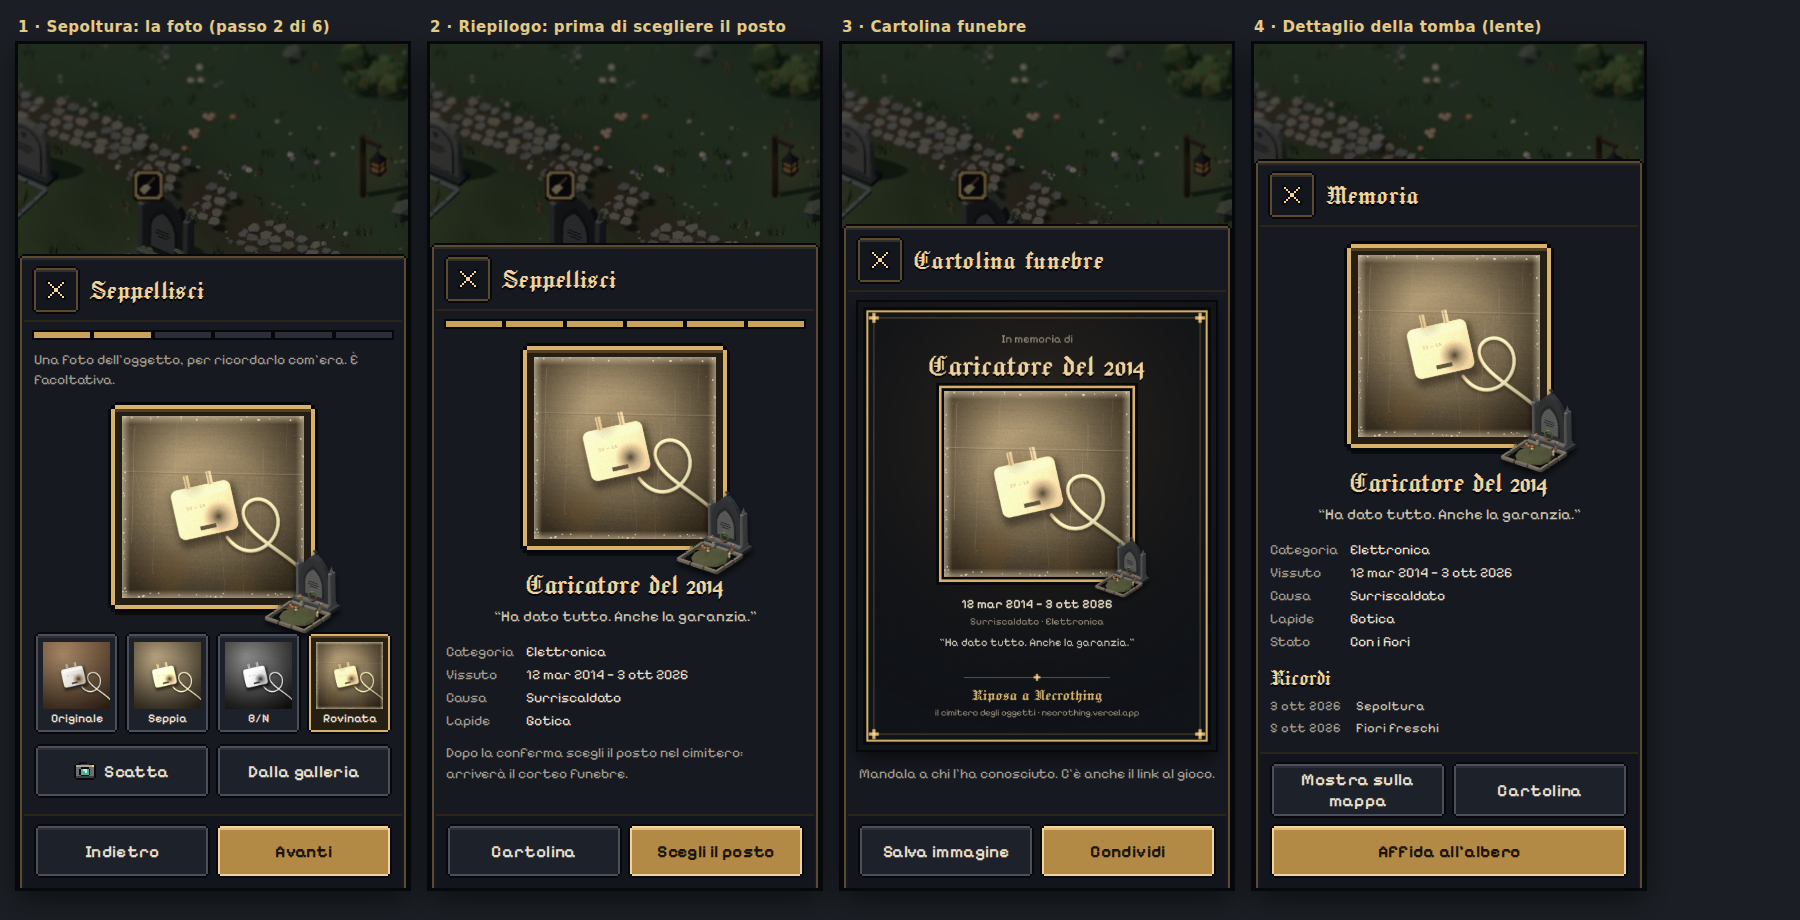
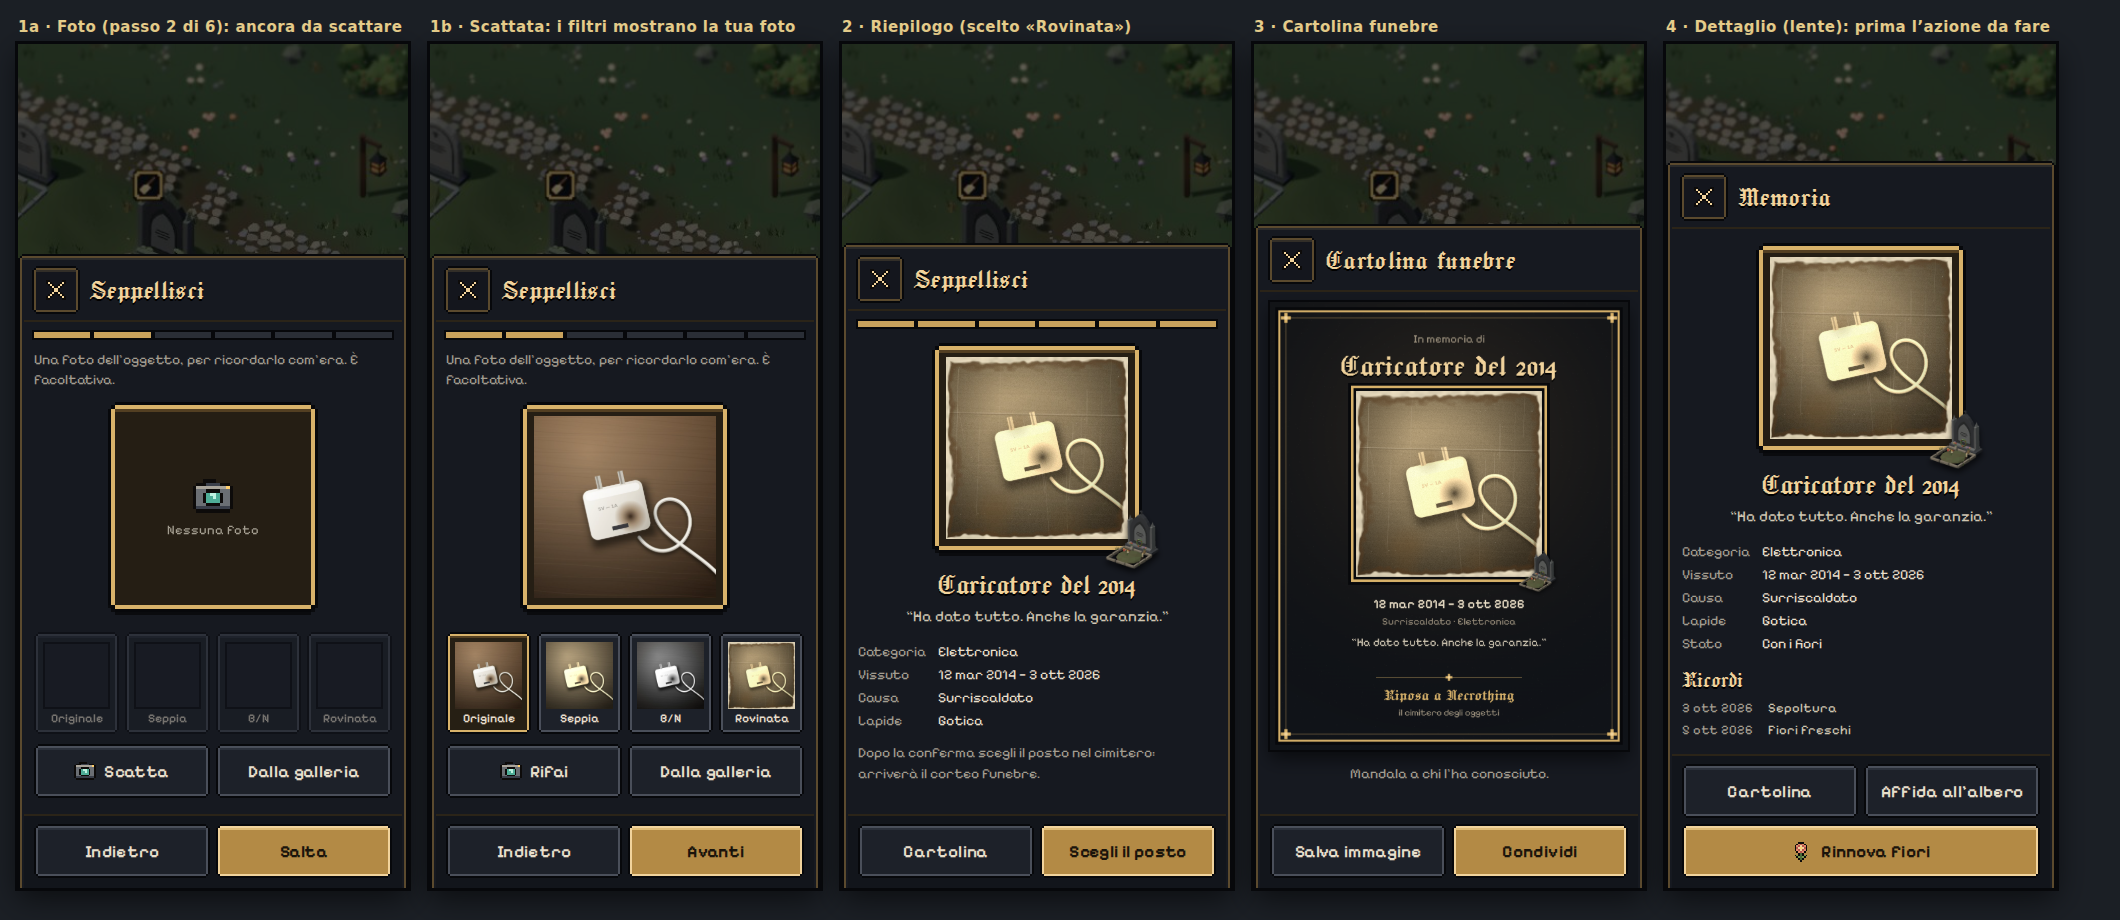
Anteprima memoriale rivista: filtro di partenza Originale, stato senza foto, bordi consumati irregolari, lapide più piccola, cartolina senza link, azione da fare come pulsante principale del dettaglio
Claude-Session: https://claude.ai/code/session_01U6u5RojYrwYjZd8sSRU7em

diff --git a/Prototype-3d/src/proto/memorial.ts b/Prototype-3d/src/proto/memorial.ts
@@ -75,6 +75,7 @@ const photo = squareCrop(samplePhoto());
 const FILTERS: PhotoFilter[] = ['none', 'sepia', 'bw', 'worn'];
 const filtered = Object.fromEntries(FILTERS.map((f) => [f, applyPhotoFilter(photo, f, 11)])) as Record<PhotoFilter, HTMLCanvasElement>;
 const url = (c: HTMLCanvasElement) => c.toDataURL('image/jpeg', 0.85);
+/** Filtro scelto nella sepoltura d'esempio (si parte sempre da «Originale»). */
 const chosen: PhotoFilter = 'worn';
 const stone = graveThumb('gothic', 'lowpoly', 'flowers', 1);
 
@@ -83,7 +84,10 @@ const GRAVE = {
   dates: '12 mar 2014 — 3 ott 2026', cause: 'Surriscaldato', category: 'Elettronica', lapide: 'Gotica',
 };
 
-const portrait = (src: string) => h('div', { class: 'portrait' }, h('img', { class: 'pic', src, alt: '' }), h('img', { class: 'stone', src: stone, alt: '' }));
+/** Foto incorniciata; la lapide in piccolo solo quando è già scelta (non nel passo della foto). */
+const portrait = (src: string | null, withStone = true) => src
+  ? h('div', { class: 'portrait' }, h('img', { class: 'pic', src, alt: '' }), withStone ? h('img', { class: 'stone', src: stone, alt: '' }) : null)
+  : h('div', { class: 'portrait empty' }, h('div', { class: 'pic' }, icon('photo', 40), 'Nessuna foto'));
 
 /** Un telefono: lo sfondo del gioco, lo scrim e il drawer con titolo, corpo e piede. */
 function phone(caption: string, title: string, body: Node, foot: Node | null, steps?: [number, number]) {
@@ -101,12 +105,14 @@ const btn = (label: string, ghost = false, ic?: string) => h('button', { class: 
 
 async function screens() {
   const tav = document.getElementById('tavola')!;
-  // 1 · passo «Foto» della sepoltura
-  const s1 = h('div', { class: 'photo-pick' },
+  // 1 · passo «Foto» della sepoltura: senza foto i filtri restano spenti; scattata, mostrano la foto
+  const pick = (taken: boolean) => h('div', { class: 'photo-pick' },
     h('p', { class: 'muted', style: 'margin:0' }, 'Una foto dell’oggetto, per ricordarlo com’era. È facoltativa.'),
-    portrait(url(filtered[chosen])),
-    h('div', { class: 'filters' }, ...FILTERS.map((f) => h('button', { class: `card${f === chosen ? ' selected' : ''}` }, h('img', { src: url(filtered[f]), alt: '' }), h('b', {}, PHOTO_FILTER_LABELS[f])))),
-    row(btn('Scatta', true, 'photo'), btn('Dalla galleria', true)),
+    portrait(taken ? url(filtered.none) : null, false),
+    h('div', { class: 'filters' }, ...FILTERS.map((f) => h('button', { class: `card${taken && f === 'none' ? ' selected' : ''}`, disabled: !taken },
+      taken ? h('img', { src: url(filtered[f]), alt: '' }) : h('div', { style: 'width:100%;aspect-ratio:1;background:#1a1e26;box-shadow:inset 0 0 0 2px #07080b' }),
+      h('b', {}, PHOTO_FILTER_LABELS[f])))),
+    row(btn(taken ? 'Rifai' : 'Scatta', true, 'photo'), btn('Dalla galleria', true)),
   );
   // 2 · riepilogo prima di scegliere il posto
   const kv = (extra: Array<[string, string]> = []) => h('dl', { class: 'kv' }, ...[['Categoria', GRAVE.category], ['Vissuto', GRAVE.dates], ['Causa', GRAVE.cause], ['Lapide', GRAVE.lapide], ...extra].flatMap(([k, v]) => [h('dt', {}, k), h('dd', {}, v)]));
@@ -114,16 +120,17 @@ async function screens() {
   const s2 = h('div', {}, hero(), kv(), h('p', { class: 'muted' }, 'Dopo la conferma scegli il posto nel cimitero: arriverà il corteo funebre.'));
   // 3 · cartolina
   const card = await drawPostcard({ name: GRAVE.name, dates: GRAVE.dates, cause: GRAVE.cause, category: GRAVE.category, epitaph: GRAVE.epitaph, photo: filtered[chosen], headstone: await img(stone) });
-  const s3 = h('div', {}, h('img', { class: 'postcard-view', src: card.toDataURL('image/png'), alt: '' }), h('p', { class: 'muted', style: 'text-align:center' }, 'Mandala a chi l’ha conosciuto. C’è anche il link al gioco.'));
+  const s3 = h('div', {}, h('img', { class: 'postcard-view', src: card.toDataURL('image/png'), alt: '' }), h('p', { class: 'muted', style: 'text-align:center' }, 'Mandala a chi l’ha conosciuto.'));
   // 4 · dettaglio della tomba (la lente)
   const s4 = h('div', {}, hero(), kv([['Stato', 'Con i fiori']]),
     h('div', { class: 'section-title' }, 'Ricordi'),
     h('ul', { class: 'timeline' }, h('li', {}, h('time', {}, '3 ott 2026'), 'Sepoltura'), h('li', {}, h('time', {}, '5 ott 2026'), 'Fiori freschi')));
   tav.append(
-    phone('1 · Sepoltura: la foto (passo 2 di 6)', 'Seppellisci', s1, row(btn('Indietro', true), btn('Avanti')), [1, 6]),
-    phone('2 · Riepilogo: prima di scegliere il posto', 'Seppellisci', s2, row(btn('Cartolina', true), btn('Scegli il posto')), [5, 6]),
+    phone('1a · Foto (passo 2 di 6): ancora da scattare', 'Seppellisci', pick(false), row(btn('Indietro', true), btn('Salta')), [1, 6]),
+    phone('1b · Scattata: i filtri mostrano la tua foto', 'Seppellisci', pick(true), row(btn('Indietro', true), btn('Avanti')), [1, 6]),
+    phone('2 · Riepilogo (scelto «Rovinata»)', 'Seppellisci', s2, row(btn('Cartolina', true), btn('Scegli il posto')), [5, 6]),
     phone('3 · Cartolina funebre', 'Cartolina funebre', s3, row(btn('Salva immagine', true), btn('Condividi'))),
-    phone('4 · Dettaglio della tomba (lente)', 'Memoria', s4, h('div', { style: 'display:grid;grid-template-columns:1fr 1fr;gap:6px' }, btn('Mostra sulla mappa', true), btn('Cartolina', true), h('button', { class: 'big-btn', style: 'grid-column:1/-1' }, 'Affida all’albero'))),
+    phone('4 · Dettaglio (lente): prima l’azione da fare', 'Memoria', s4, h('div', { style: 'display:grid;gap:6px' }, row(btn('Cartolina', true), btn('Affida all’albero', true)), btn('Rinnova fiori', false, 'flower'))),
   );
   hydrateIcons(tav);
 }

diff --git a/Prototype-3d/src/ui/photoFilters.ts b/Prototype-3d/src/ui/photoFilters.ts
@@ -57,7 +57,7 @@ export function applyPhotoFilter(src: HTMLCanvasElement, filter: PhotoFilter, se
   g.putImageData(img, 0, 0);
   if (filter !== 'worn') return vignette(c, filter === 'bw' ? 0.35 : 0.3);
   // rovinata: vignetta forte, macchie, graffi, polvere, piega e angoli consumati
-  vignette(c, 0.6);
+  vignette(c, 0.45);
   for (let i = 0; i < 5; i++) {
     const x = rng.range(0, W), y = rng.range(0, H), r = rng.range(W * 0.05, W * 0.16);
     const st = g.createRadialGradient(x, y, 0, x, y, r);
@@ -82,20 +82,52 @@ export function applyPhotoFilter(src: HTMLCanvasElement, filter: PhotoFilter, se
   g.beginPath(); g.moveTo(0, fy); g.lineTo(W, fy + rng.range(-H * 0.12, H * 0.12)); g.stroke();
   g.strokeStyle = 'rgba(40,25,10,0.18)'; g.lineWidth = 3 * (W / 720);
   g.beginPath(); g.moveTo(0, fy + 3); g.lineTo(W, fy + 3 + rng.range(-H * 0.12, H * 0.12)); g.stroke();
-  // bordi consumati: la carta schiarisce verso i lati, con sbrecciature irregolari
-  const edge = W * 0.045;
-  for (const [x0, y0, x1, y1] of [[0, 0, edge, 0], [W, 0, W - edge, 0], [0, 0, 0, edge], [0, H, 0, H - edge]]) {
-    const eg = g.createLinearGradient(x0, y0, x1, y1);
-    eg.addColorStop(0, 'rgba(232,216,184,0.55)'); eg.addColorStop(1, 'rgba(232,216,184,0)');
-    g.fillStyle = eg; g.fillRect(0, 0, W, H);
-  }
-  g.fillStyle = 'rgba(236,224,196,0.85)';
-  for (let i = 0; i < 90; i++) {
-    const side = i % 4, t = rng.range(0, side < 2 ? W : H), d = rng.range(0, edge * 0.5), s = rng.range(2, 7) * (W / 720);
-    const [x, y] = side === 0 ? [t, d] : side === 1 ? [t, H - d - s] : side === 2 ? [d, t] : [W - d - s, t];
-    g.fillRect(x, y, s, s);
-  }
+  wornEdges(g, W, H, rng);
   return c;
+}
+
+/** Rumore morbido (griglia di valori casuali interpolata), 0..1. */
+function valueNoise(rng: ReturnType<typeof createRng>, cells: number) {
+  const n = cells + 1, v = Array.from({ length: n * n }, () => rng.next());
+  const sm = (t: number) => t * t * (3 - 2 * t);
+  return (u: number, w: number) => {
+    const x = u * cells, y = w * cells, i = Math.min(cells - 1, Math.floor(x)), j = Math.min(cells - 1, Math.floor(y));
+    const fx = sm(x - i), fy = sm(y - j);
+    const a = v[j * n + i] + (v[j * n + i + 1] - v[j * n + i]) * fx;
+    const b = v[(j + 1) * n + i] + (v[(j + 1) * n + i + 1] - v[(j + 1) * n + i]) * fx;
+    return a + (b - a) * fy;
+  };
+}
+
+/**
+ * Bordi consumati: verso i lati l'emulsione si stacca a chiazze (si vede la
+ * carta chiara) e prima c'è un alone bruno dove la stampa è invecchiata. Il
+ * contorno segue un rumore a due scale, quindi non è mai una riga dritta.
+ */
+function wornEdges(g: CanvasRenderingContext2D, W: number, H: number, rng: ReturnType<typeof createRng>) {
+  const coarse = valueNoise(rng, 7), fine = valueNoise(rng, 40);
+  const band = Math.min(W, H) * 0.11;
+  const img = g.getImageData(0, 0, W, H);
+  const d = img.data;
+  for (let y = 0; y < H; y++) {
+    for (let x = 0; x < W; x++) {
+      const e = Math.min(x, y, W - 1 - x, H - 1 - y);
+      if (e > band) { x = Math.max(x, W - 2 - Math.ceil(band)); continue; } // salta il centro della riga
+      const n = coarse(x / W, y / H) * 0.7 + fine(x / W, y / H) * 0.3;
+      const t = band * (0.15 + 0.85 * n * n); // quanto entra il consumo in questo punto
+      const paper = Math.min(1, Math.max(0, (t * 0.55 - e) / (t * 0.2 + 1)));
+      const age = Math.max(0, 1 - Math.abs(e - t * 0.75) / (t * 0.6 + 1)) * 0.5;
+      const i = (y * W + x) * 4;
+      const grain = 0.9 + fine(y / H, x / W) * 0.12;
+      for (let k = 0; k < 3; k++) {
+        let v = d[i + k];
+        v += ([88, 58, 30][k] - v) * age;
+        v += ([232, 219, 190][k] * grain - v) * paper;
+        d[i + k] = clamp(v);
+      }
+    }
+  }
+  g.putImageData(img, 0, 0);
 }
 
 function vignette(c: HTMLCanvasElement, amount: number): HTMLCanvasElement {

diff --git a/Prototype-3d/src/ui/postcard.ts b/Prototype-3d/src/ui/postcard.ts
@@ -1,6 +1,7 @@
 // Cartolina funebre da condividere: nome, date, causa, epitaffio, la foto
-// dell'oggetto incorniciata con la sua lapide in piccolo, e il rimando al
-// gioco. Disegnata su una tela 1080×1350 (4:5, va bene per chat e social).
+// dell'oggetto incorniciata con la sua lapide in piccolo, e il nome del
+// gioco (il link o il QR arriveranno con la pubblicazione negli store).
+// Disegnata su una tela 1080×1350 (4:5, va bene per chat e social).
 
 export interface PostcardData {
   name: string;
@@ -13,7 +14,6 @@ export interface PostcardData {
   headstone: CanvasImageSource | null;
 }
 
-export const GAME_URL = 'necrothing.vercel.app';
 export const POSTCARD_W = 1080, POSTCARD_H = 1350;
 
 const GOLD = '#d8b26a', GOLD_HI = '#f1d39c', INK = '#07080b', PAPER = '#e8dcc4', MUTED = '#9a8f7c';
@@ -93,9 +93,9 @@ export async function drawPostcard(d: PostcardData): Promise<HTMLCanvasElement> 
   }
   // la lapide in piccolo, in basso a destra sopra la cornice
   if (d.photo && d.headstone) {
-    const hs = 200;
-    g.save(); g.shadowColor = 'rgba(0,0,0,0.7)'; g.shadowBlur = 18; g.shadowOffsetY = 6;
-    g.drawImage(d.headstone, fx + S - hs * 0.62, fy + S - hs * 0.68, hs, hs);
+    const hs = 136;
+    g.save(); g.shadowColor = 'rgba(0,0,0,0.7)'; g.shadowBlur = 14; g.shadowOffsetY = 5;
+    g.drawImage(d.headstone, fx + S - hs * 0.6, fy + S - hs * 0.66, hs, hs);
     g.restore();
   }
   // date, causa, epitaffio
@@ -110,14 +110,14 @@ export async function drawPostcard(d: PostcardData): Promise<HTMLCanvasElement> 
     g.fillStyle = '#cfc6b2'; g.font = `400 34px ${PIXEL}`;
     for (const line of wrap(g, `“${d.epitaph}”`, W - 220, 2)) { g.fillText(line, W / 2, y); y += 44; }
   }
-  // rimando al gioco
+  // il nome del gioco
   const fy2 = H - 150;
   g.fillStyle = 'rgba(216,178,106,0.5)'; g.fillRect(W / 2 - 220, fy2 - 70, 440, 2);
   corner(g, W / 2, fy2 - 69, 7);
   g.fillStyle = GOLD; g.font = `400 54px ${GOTHIC}`;
   g.fillText('Riposa a Necrothing', W / 2, fy2);
   g.fillStyle = MUTED; g.font = `400 28px ${PIXEL}`;
-  g.fillText(`il cimitero degli oggetti · ${GAME_URL}`, W / 2, fy2 + 46);
+  g.fillText('il cimitero degli oggetti', W / 2, fy2 + 46);
   return c;
 }
 
@@ -125,7 +125,7 @@ export async function drawPostcard(d: PostcardData): Promise<HTMLCanvasElement> 
 export async function sharePostcard(canvas: HTMLCanvasElement, name: string): Promise<'shared' | 'downloaded' | 'cancelled'> {
   const blob = await new Promise<Blob>((res) => canvas.toBlob((b) => res(b!), 'image/png'));
   const file = new File([blob], `necrothing-${name.toLowerCase().replace(/[^a-z0-9]+/g, '-').replace(/^-|-$/g, '') || 'cartolina'}.png`, { type: 'image/png' });
-  const text = `In memoria di ${name}. Sepolto a Necrothing, il cimitero degli oggetti: https://${GAME_URL}`;
+  const text = `In memoria di ${name}. Sepolto a Necrothing, il cimitero degli oggetti.`;
   const nav = navigator as Navigator & { canShare?: (d: unknown) => boolean };
   if (nav.canShare?.({ files: [file] })) {
     try { await navigator.share({ files: [file], text, title: `In memoria di ${name}` }); return 'shared'; } catch { return 'cancelled'; }

diff --git a/Prototype-3d/src/styles/main.css b/Prototype-3d/src/styles/main.css
@@ -199,13 +199,15 @@ button.slot:active, .icon-btn:active, .ctx-actions button:active, .big-btn:activ
 
 /* ── Foto dell'oggetto: ritratto incorniciato con la lapide in piccolo ── */
 .portrait { position: relative; width: 210px; margin: 2px auto 10px; }
-.portrait > img.pic { display: block; width: 100%; height: auto; aspect-ratio: 1; object-fit: cover; box-sizing: border-box; padding: 4px; border: 10px solid transparent; border-image: var(--frame-gold) 3 fill / 10px / 0 stretch; filter: var(--drop); }
-.portrait > img.stone { position: absolute; right: -30px; bottom: -22px; width: 92px; height: 92px; border: 0; border-image: none; filter: drop-shadow(0 4px 3px rgba(0, 0, 0, 0.75)); }
+.portrait > .pic { display: block; width: 100%; height: auto; aspect-ratio: 1; object-fit: cover; box-sizing: border-box; padding: 4px; border: 10px solid transparent; border-image: var(--frame-gold) 3 fill / 10px / 0 stretch; filter: var(--drop); }
+.portrait > img.stone { position: absolute; right: -22px; bottom: -16px; width: 64px; height: 64px; border: 0; border-image: none; filter: drop-shadow(0 4px 3px rgba(0, 0, 0, 0.75)); }
 .photo-pick { display: grid; gap: 10px; }
 .filters { display: grid; grid-template-columns: repeat(4, 1fr); gap: 6px; }
 .filters .card { min-height: 0; padding: 4px 3px 2px; }
 .filters .card img { width: 100%; height: auto; aspect-ratio: 1; object-fit: cover; }
 .filters .card b { font-size: 12px; }
+.portrait.empty > .pic { display: grid; place-items: center; align-content: center; gap: 6px; color: var(--muted); font-size: 13px; text-align: center; }
+.filters .card:disabled { opacity: 0.45; }
 .postcard-view { display: block; width: 100%; max-width: 360px; margin: 0 auto; box-shadow: 0 0 0 2px #07080b, 0 8px 18px rgba(0, 0, 0, 0.6); }
 
 /* ── Dialogo di conferma (al posto di confirm() del browser) ───── */
